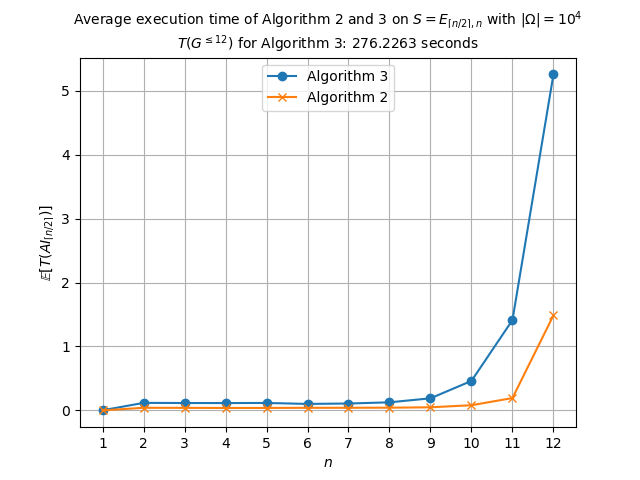
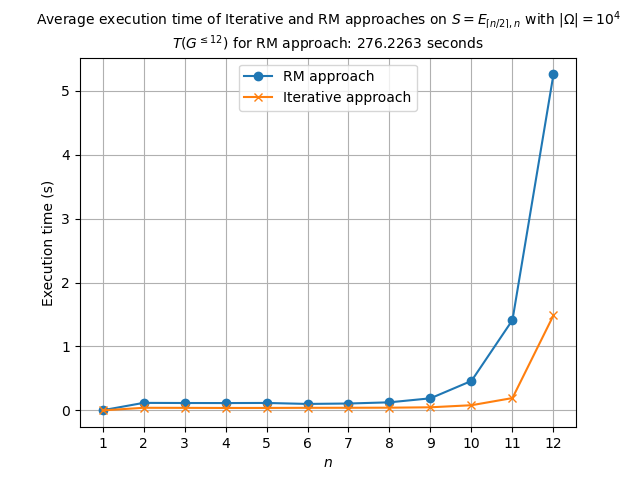
Post paper acceptance (#20)
* to checkout

* readme file update

Changed region(s): [[0.0625, 0.0312, 0.9688, 0.2188], [0.0625, 0.375, 0.0938, 0.6562]]

diff --git a/src/restricted_algebraic_immunity/factory/produce_time_comparison_plot.py b/src/restricted_algebraic_immunity/factory/produce_time_comparison_plot.py
@@ -14,16 +14,16 @@ def plot_and_save(df_iv, df_rmf, sample_size):
 
     print(df_iv)
     # Plot the data
-    plt.plot(df_rmf['n'], df_rmf['Average execution times'], marker='o', label="Algorithm 3")
-    plt.plot(df_iv['n'], df_iv['Average execution times'], marker='x', label="Algorithm 2")
+    plt.plot(df_rmf['n'], df_rmf['Average execution times'], marker='o', label="RM approach")
+    plt.plot(df_iv['n'], df_iv['Average execution times'], marker='x', label="Iterative approach")
     plt.xticks(range(int(min(df_iv['n'])), int(max(df_iv['n'])) + 1))
     plt.xlabel(r'$n$')
-    plt.ylabel(r'$\mathbb{E}\left[T\left(AI_{\lceil{n/2}\rceil}\right)\right]$', rotation=90)
+    plt.ylabel(r'Execution time (s)', rotation=90)
     # plt.title(rf'Average execution time of Algorithm 1 and 2 on $S = E_{{n,\lceil{{n/2}}\rceil}}$ for $n$ from $0$ to ${max_n}$ with $|\Omega| = {sample_size}$\nPrecomputation of $D$ for Algorithm 1: {pre_computation_time}')
 
     title = (
-        f"Average execution time of Algorithm 2 and 3 on $S = E_{{\\lceil{{n/2}}\\rceil,n}}$"
-        f" with $|\\Omega| = {{10^4}}$\n$T(G^{{\leq 12}} )$ for Algorithm 3: {round(pre_computation_time, 4)} seconds"
+        f"Average execution time of Iterative and RM approaches on $S = E_{{\\lceil{{n/2}}\\rceil,n}}$"
+        f" with $|\\Omega| = {{10^4}}$\n$T(G^{{\leq 12}} )$ for RM approach: {round(pre_computation_time, 4)} seconds"
     )
 
     # Wrap title

diff --git a/algebraic_immunity_utils/src/matrix.rs b/algebraic_immunity_utils/src/matrix.rs
@@ -109,9 +109,6 @@ impl Matrix {
                     let piv: Option<usize> = Matrix::get_pivot(&m_copy.elements[j]);
                     if piv.is_none() {
                         closest = Some(j);
-                        // if closest.is_none() {
-                        //     closest = Some(j);
-                        // }
                         break;
                     } else {
                         let piv_u = piv.unwrap();

diff --git a/algebraic_immunity_utils/src/restricted_ai.rs b/algebraic_immunity_utils/src/restricted_ai.rs
@@ -87,7 +87,7 @@ impl RestrictedAI{
                 for &pos in &ones_positions {
                     binary_string[pos] = '1';
                 }
-                let combination: String = binary_string.iter().rev().collect(); // ✅ No reverse
+                let combination: String = binary_string.iter().rev().collect();
                 all_combinations.push(combination);
             }
         }

diff --git a/README.md b/README.md
@@ -1,4 +1,9 @@
 # restricted_algebraic_immunity
+This repository contains the source code to reproduce the results of the paper ["Computing the Restricted Algebraic Immunity, and Application to Weightwise Perfectly Balanced Functions"](https://link.springer.com/chapter/10.1007/978-981-95-4434-9_7) accepted at ["CANS2025"](https://cy2sec.comm.eng.osaka-u.ac.jp/miyaji-lab/event/cans2025/index.html) ([IACR ePrint 2025/1779](https://eprint.iacr.org/2025/1779) ).</br>
+For a cleaner implementation of *algebraic immunity* and *restricted algebraic immunity*, refer to the repository ["algebraic_immunity_rs](https://github.com/LucaBonamino/algebraic_immunity_rs). 
+
+---
+
 This repository contains two algorithms to compute the restricted algebraic immunity of Boolean function.</br>
 <ul>
     <li>Using punctured RM generator matrices - Algorithm 3.</li>
@@ -23,7 +28,7 @@ To use Algorithm 2 and run Application 2, any Python interpreter between 3.8 and
 
 <b>If you use this work, please cite:</b></br>
 *"Computing the Restricted Algebraic Immunity, and Application to WPB Functions"*  
-Luca Bonamino and Pierrick Méaux. [IACR ePrint 2025/1779](https://eprint.iacr.org/2025/1779).
+Luca Bonamino and Pierrick Méaux. ["Springer"](https://link.springer.com/chapter/10.1007/978-981-95-4434-9_7)
 
 While all the above-mentioned applications use Algorithm 2, only the AIk distribution relies on a full Rust implementation of it. This allows for a larger sample size in the AIk distribution compared to the one presented in the current version of the preprint.
 
